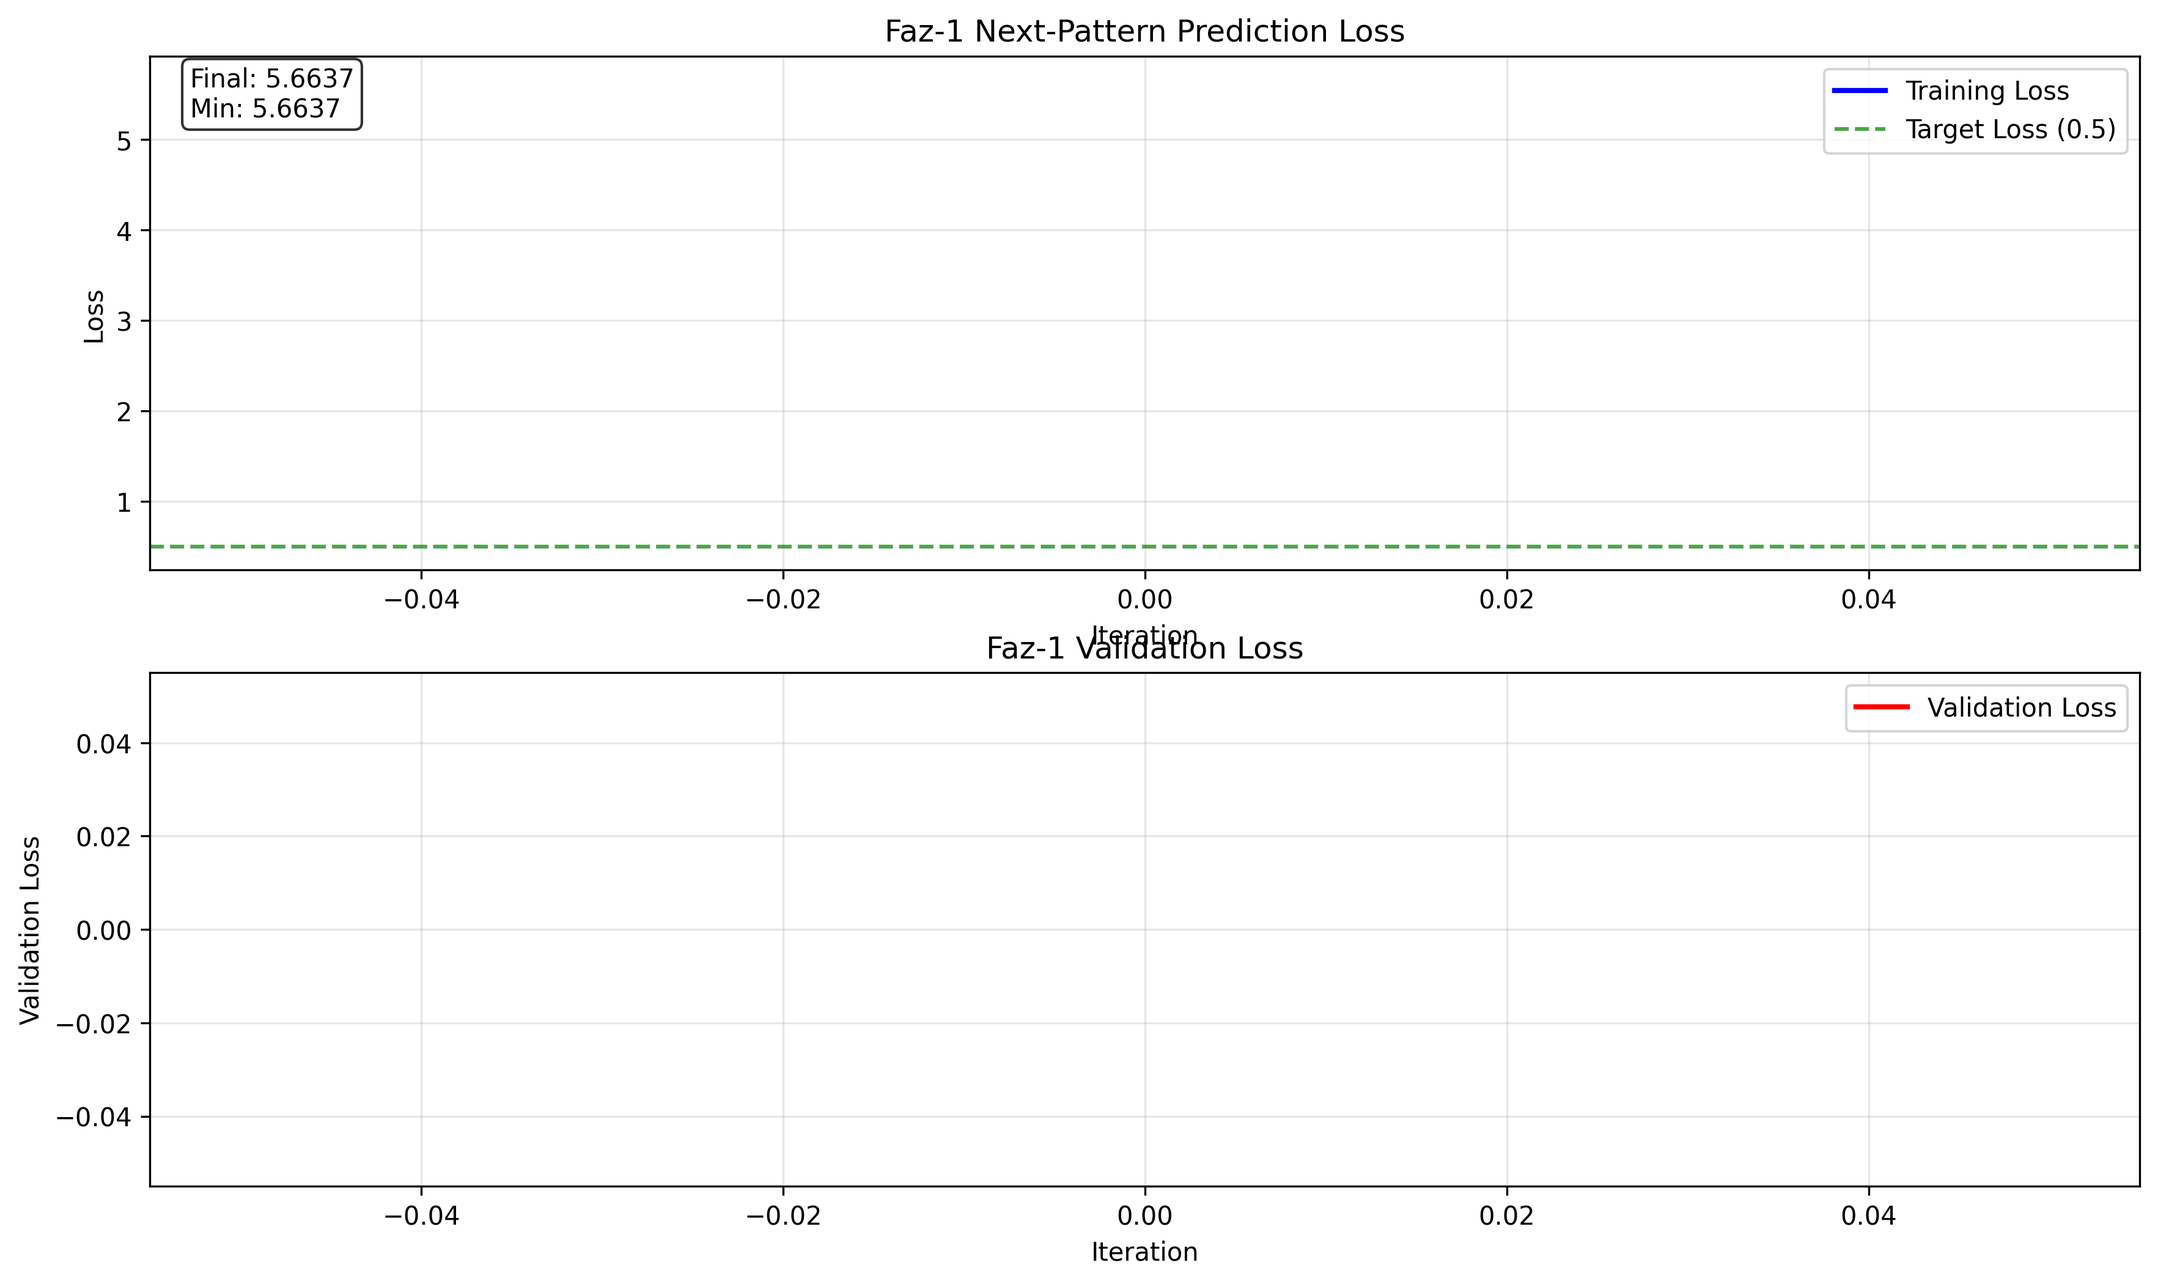
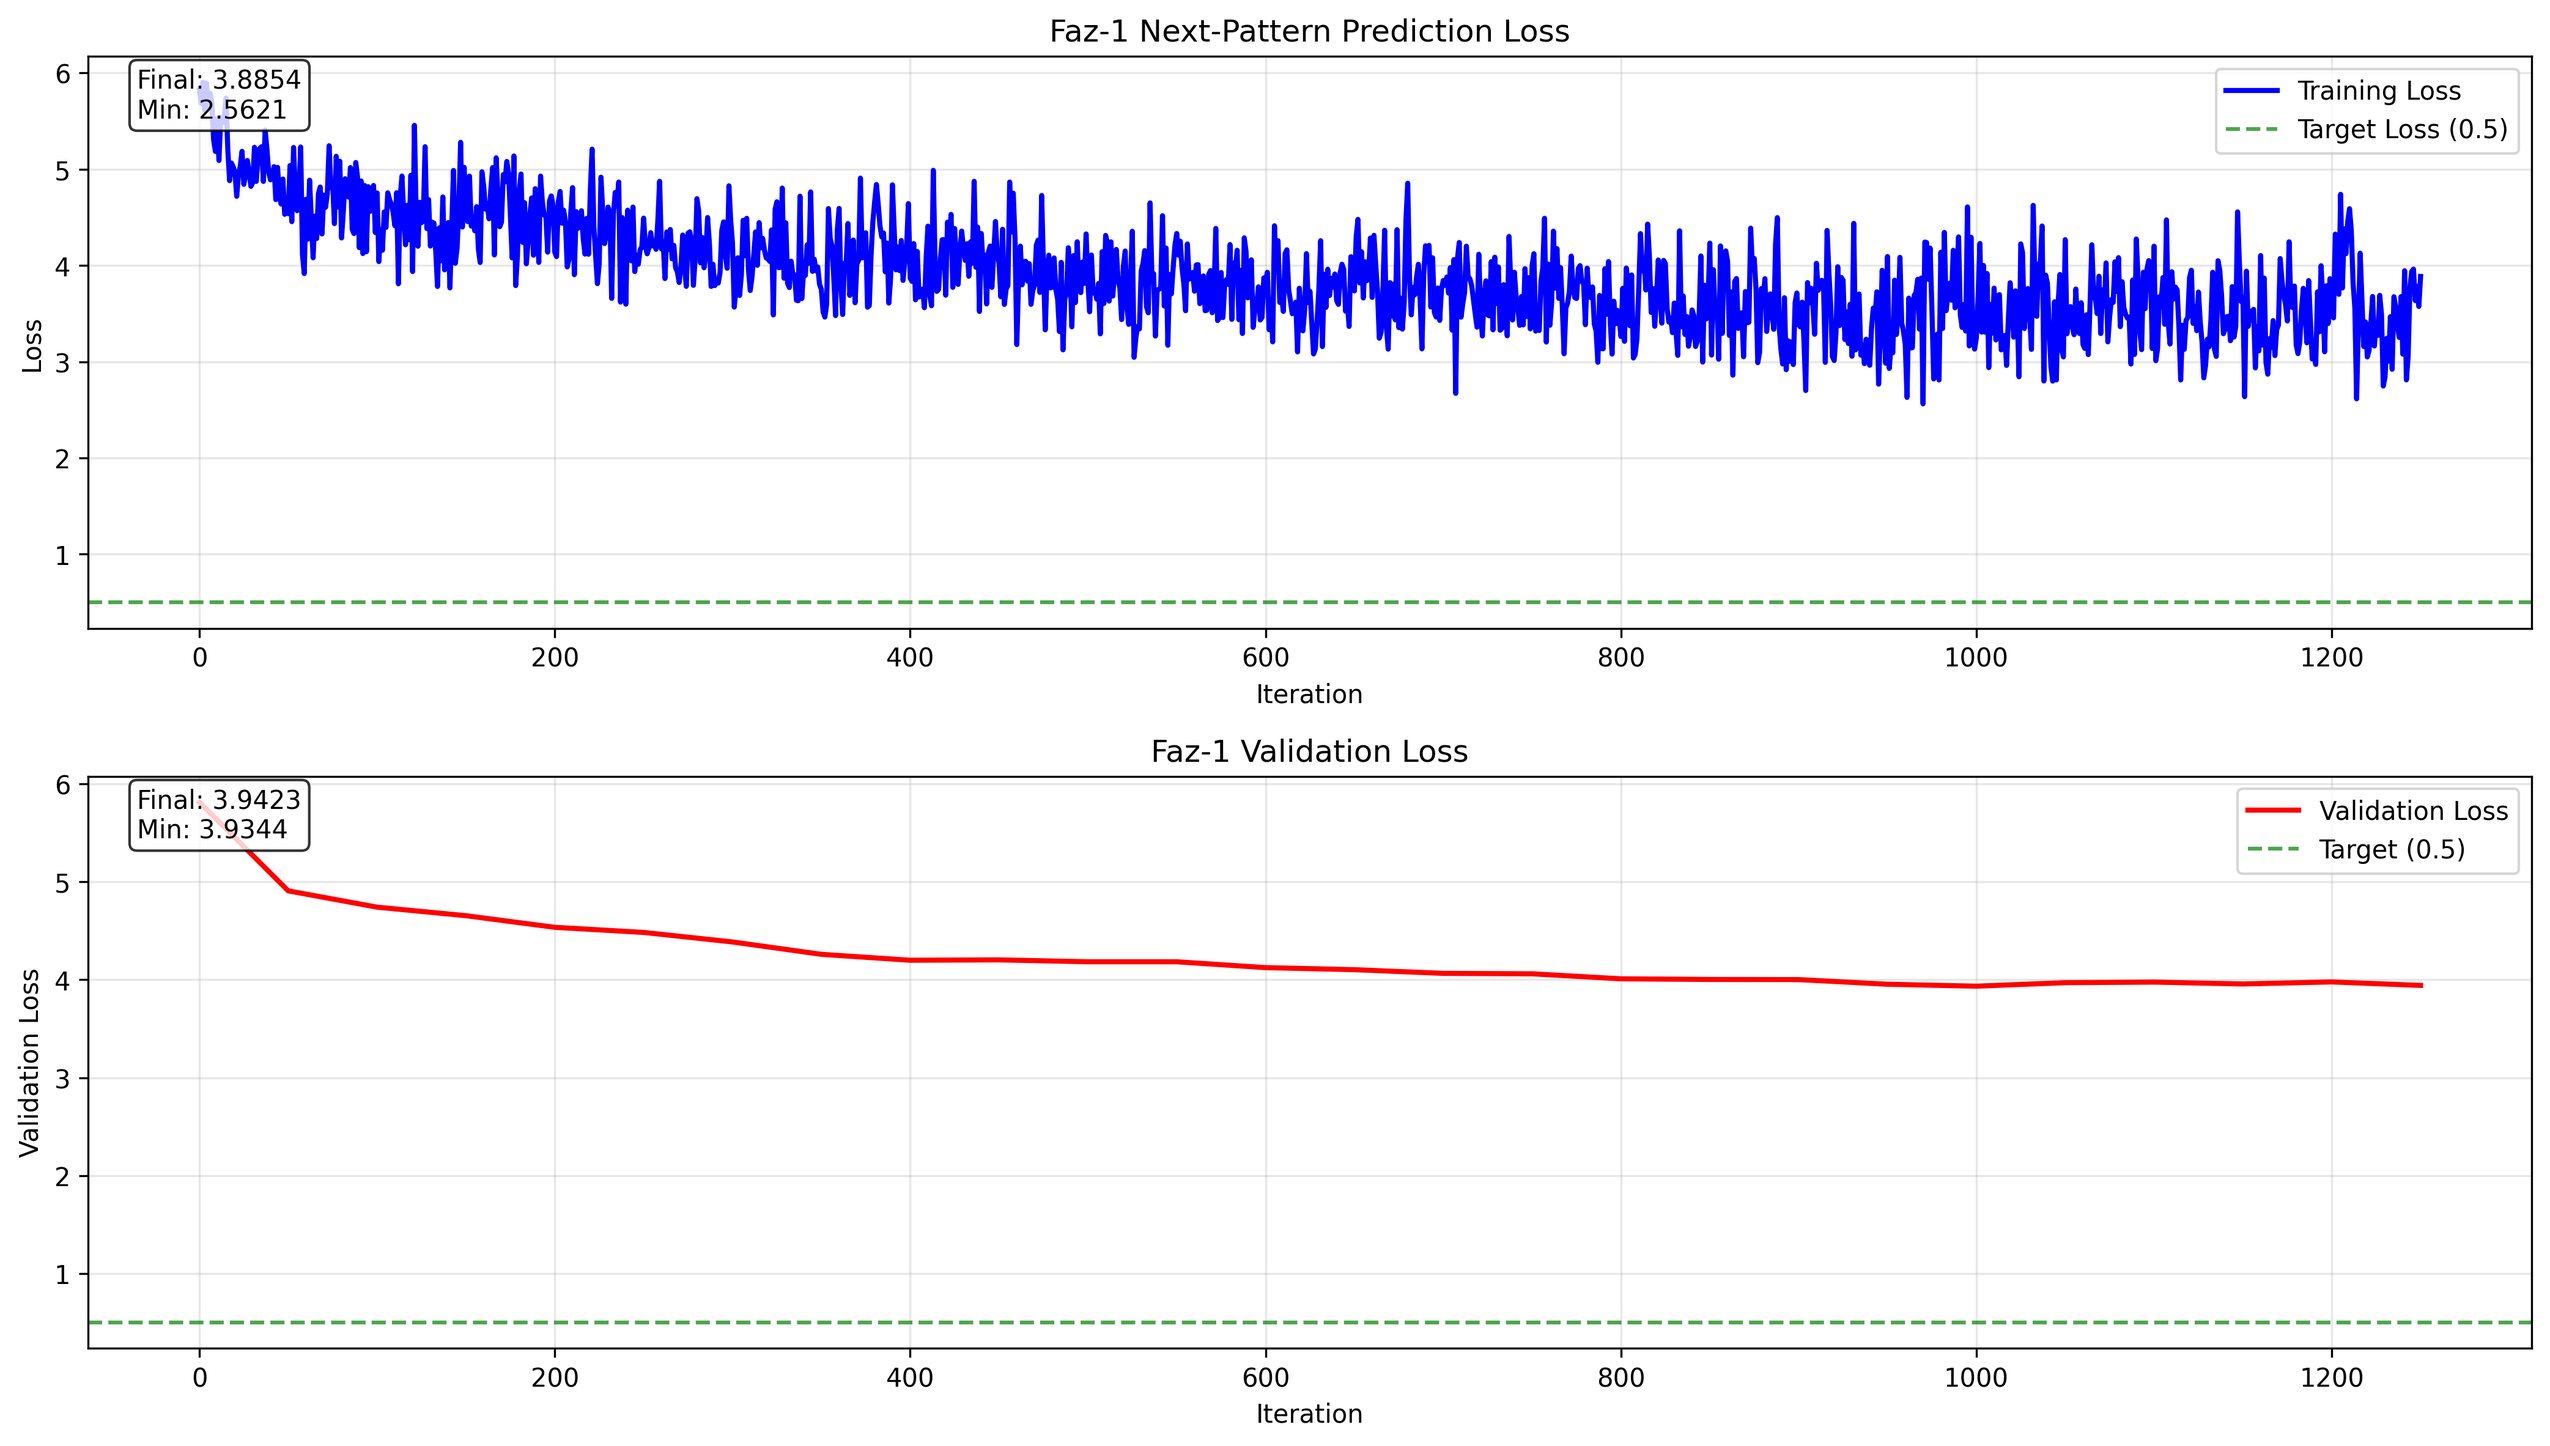
docs: add quickstart.md; data+training quick commands; FAISS progress logs; Wikipedia Turkish support; PPO/SFT notes

diff --git a/quickstart.md b/quickstart.md
@@ -1,0 +1,51 @@
+# PD-CLM Quickstart
+
+## Kurulum
+- `pip install -r requirements.txt`
+- İsteğe bağlı izleme: W&B hesabında oturum aç (`wandb login`)
+
+## Veri ve KB İndeksleme
+- Türkçe Wikipedia (Parquet):
+```
+python download_data.py --dataset wikipedia --split train --subset_pct 5 --build_index true --chunk_size 2000 --embed_dim 512 --wiki_date 20231101.tr
+```
+- İngilizce Wikipedia (isteğe bağlı):
+```
+python download_data.py --dataset wikipedia --split train --subset_pct 5 --build_index true --chunk_size 2000 --embed_dim 512 --wiki_date 20231101.en
+```
+- Çıktılar:
+  - Metin: `data/raw/wikipedia_tr_sample.txt`
+  - İndeks: `data/index/faiss.index`, `chunks.jsonl`, `meta.json`
+
+## Faz-1: Pre-training (T4 için güvenli)
+- TF32 hız/kararlılık (Ampere):
+```
+python -c "import torch; torch.backends.cuda.matmul.allow_tf32=True; torch.backends.cudnn.allow_tf32=True; import subprocess,sys; sys.exit(subprocess.call(['python','faz1_training_fixed.py','--data-path','data/raw/wikipedia_tr_sample.txt','--iterations','20000','--batch-size','2500','--accumulation-steps','16','--val-chars','10000','--embed-dim','128','--num-layers','3','--heads','2','--window-size','256','--max-windows','16','--wandb','--save-every','1000','--checkpoint-dir','checkpoints/faz1_tr'])) )"
+```
+- OOM olursa kademeli azalt: `--batch-size 3000→2000`, `--window-size 256→224`, `--embed-dim 128→96`, `--max-windows 16→12`
+
+## Faz-2: SFT (Araçlı)
+```
+python -c "from src.pdclm import PDCLM, instruction_sft_train; from src.utils import load_checkpoint; import torch; m=PDCLM(); opt=torch.optim.AdamW(m.parameters()); load_checkpoint(m,opt,'checkpoints/faz1_tr/faz1_last.pt'); instruction_sft_train(m, num_samples=10000, epochs=2, use_tools=True)"
+```
+
+## Faz-3: PPO/RL
+```
+python -c "from src.pdclm import PDCLM, ppo_train; from src.utils import load_checkpoint; import torch; m=PDCLM(); opt=torch.optim.AdamW(m.parameters()); load_checkpoint(m,opt,'checkpoints/pdclm_sft_final.pt'); ppo_train(m, epochs=2, tasks_per_epoch=500, use_tools=True, gen_max_bytes=128, cot_max_steps=5)"
+```
+
+## Değerlendirme (GSM8K)
+```
+python -c "from src.pdclm import PDCLM; from src.utils import evaluate_gsm8k, load_checkpoint; import torch; m=PDCLM(); opt=torch.optim.AdamW(m.parameters()); load_checkpoint(m,opt,'checkpoints/pdclm_ppo_final.pt'); print(evaluate_gsm8k(m, split='test', sample_size=200))"
+```
+
+## DDP (Çoklu GPU)
+- Örnek (2x T4):
+```
+torchrun --nproc_per_node=2 faz1_training_fixed.py --data-path data/raw/wikipedia_tr_sample.txt --iterations 20000 --batch-size 2500 --accumulation-steps 16 --val-chars 10000 --embed-dim 128 --num-layers 3 --heads 2 --window-size 256 --max-windows 16 --wandb --save-every 1000 --checkpoint-dir checkpoints/faz1_tr
+```
+
+## Sorun Giderme
+- OOM: `--max-windows`, `--window-size`, `--embed-dim`, `--batch-size` düşür; kümülatif `--accumulation-steps` artır.
+- FAISS: `download_data.py` komutu sonunda `[INDEX] Saved FAISS index ...` çıktısını doğrula.
+- W&B erişimi: Proje görünürlüğünü aç veya oturum kontrol et.
